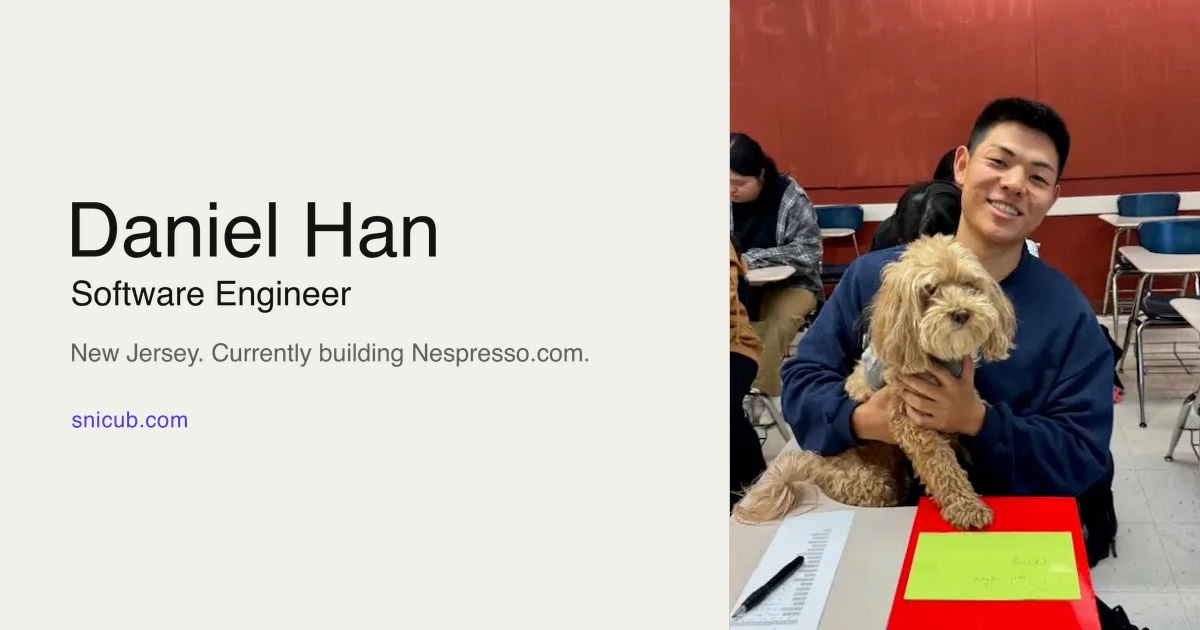
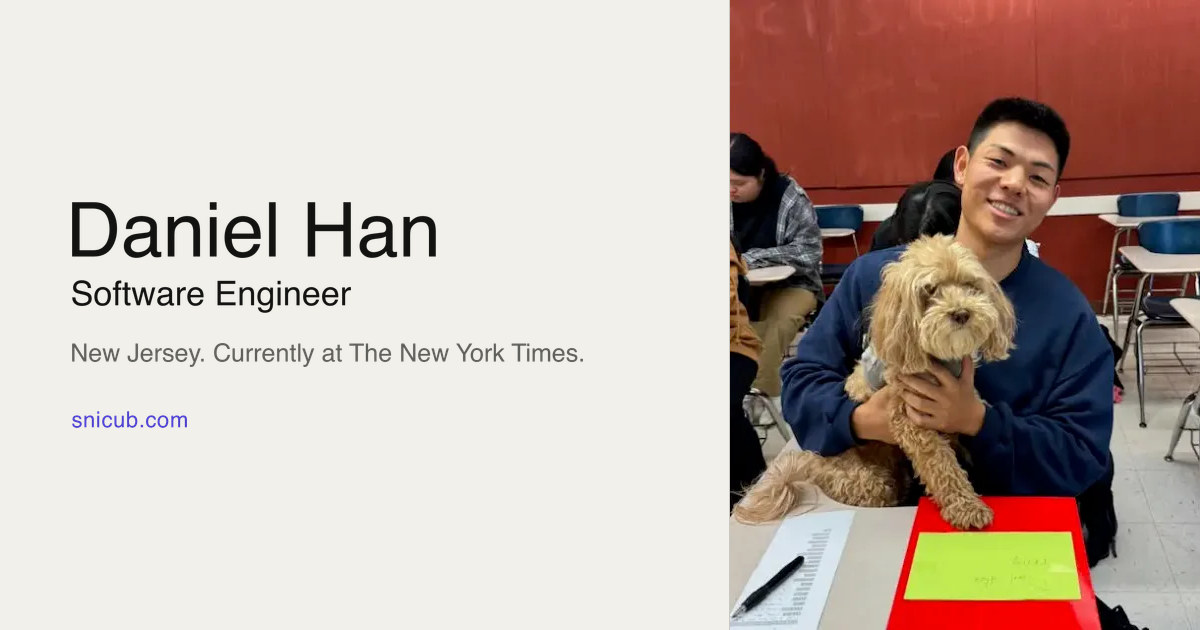
content: new role at The New York Times (Games)
Add NYT as current role; close out Nestle Nespresso (June 2025 - September
2026). Update meta descriptions, Person schema (worksFor, occupation),
keywords, llms.txt, manifest, and regenerate the OG card.

Changed region(s): [[0.0617, 0.5429, 0.4933, 0.573]]

diff --git a/src/lib/seo.ts b/src/lib/seo.ts
@@ -8,7 +8,7 @@ export const SITE_URL = "https://snicub.com";
 export const SITE_NAME = "Daniel Han";
 export const DEFAULT_TITLE = "Daniel Han — Software Engineer";
 export const DEFAULT_DESCRIPTION =
-  "Daniel Han is a software engineer based in New Jersey, currently building Nespresso.com. Portfolio of work, projects, and personal life.";
+  "Daniel Han is a software engineer based in New Jersey, currently at The New York Times. Portfolio of work, projects, and personal life.";
 export const OG_IMAGE = `${SITE_URL}/og-image.jpg`;
 export const OG_IMAGE_ALT =
   "Daniel Han — software engineer based in New Jersey";
@@ -61,7 +61,7 @@ export const PERSON = {
   name: "Daniel Han",
   alternateName: "Dan Han",
   jobTitle: "Software Engineer",
-  worksFor: "Nestle Nespresso",
+  worksFor: "The New York Times",
   alumniOf: "Rutgers University",
   location: "New Jersey, United States",
   email: "daniel.hangb@gmail.com",
@@ -135,9 +135,9 @@ export function personEntity() {
     url: SITE_URL,
     jobTitle: PERSON.jobTitle,
     description:
-      "Software engineer based in New Jersey, currently building Nespresso.com.",
+      "Software engineer based in New Jersey, currently at The New York Times.",
     disambiguatingDescription:
-      "Software engineer at Nestle Nespresso; Rutgers University graduate in Computer Science and Korean; based in New Jersey.",
+      "Software engineer at The New York Times, previously Nestle Nespresso; Rutgers University graduate in Computer Science and Korean; based in New Jersey.",
     email: `mailto:${PERSON.email}`,
     image: {
       "@type": "ImageObject",
@@ -150,9 +150,9 @@ export function personEntity() {
     },
     worksFor: {
       "@type": "Organization",
-      name: "Nestle Nespresso",
-      url: "https://www.nespresso.com/",
-      sameAs: "https://en.wikipedia.org/wiki/Nespresso",
+      name: "The New York Times",
+      url: "https://www.nytimes.com/",
+      sameAs: "https://en.wikipedia.org/wiki/The_New_York_Times",
     },
     alumniOf: {
       "@type": "CollegeOrUniversity",
@@ -185,7 +185,7 @@ export function personEntity() {
         "@type": "Occupation",
         name: "Software Engineer",
         description:
-          "Making the Nespresso website fast, functional, and user friendly.",
+          "Building New York Times Games.",
         occupationLocation: {
           "@type": "State",
           name: "New Jersey",
@@ -437,7 +437,7 @@ export function aboutGraph(args: {
       path: "/about",
       name: "About Daniel Han",
       description:
-        "Daniel Han is a software engineer at Nespresso, Rutgers CS + Korean alum, with experience at Colgate-Palmolive. Contact, experience, and education.",
+        "Daniel Han is a software engineer at The New York Times, Rutgers CS + Korean alum, previously at Nestle Nespresso and Colgate-Palmolive. Contact, experience, and education.",
       crumbs,
       speakableSelectors: [
         ".masthead__lede",

diff --git a/src/lib/data.ts b/src/lib/data.ts
@@ -209,7 +209,7 @@ const Data = {
     card1: {
       title: "About Me",
       content:
-        "Hi! I'm Dan, a software engineer based in New Jersey. Currently building Nespresso.com. I have a passion for creating platforms and services that make people's lives easier. ",
+        "Hi! I'm Dan, a software engineer based in New Jersey. Currently at The New York Times. I have a passion for creating platforms and services that make people's lives easier. ",
     },
   },
 
@@ -232,11 +232,17 @@ const Data = {
     },
     experience: [
       {
-        title: "Nestle Nespresso",
+        title: "The New York Times",
         position: "Software Engineer",
         date: "Present",
+        description: "Building New York Times Games.",
+      },
+      {
+        title: "Nestle Nespresso",
+        position: "Software Engineer",
+        date: "June 2025 - September 2026",
         description:
-          "Making the Nespresso website fast, functional, and user friendly.",
+          "Made the Nespresso website fast, functional, and user friendly.",
       },
       {
         title: "Colgate-Palmolive",

diff --git a/src/app/llms.txt/route.ts b/src/app/llms.txt/route.ts
@@ -31,9 +31,9 @@ function build(): string {
 
   return `# Daniel Han
 
-> Software engineer based in New Jersey, currently building Nespresso.com at
-> Nestle Nespresso. Rutgers University graduate with degrees in Computer
-> Science and Korean. This site is his personal portfolio: a photo gallery of
+> Software engineer based in New Jersey, currently working on Games at The New
+> York Times, previously at Nestle Nespresso. Rutgers University graduate with
+> degrees in Computer Science and Korean. This site is his personal portfolio: a photo gallery of
 > his work and life, and an about page with his experience and education.
 
 Also known as: Dan Han, snicub.

diff --git a/src/app/layout.tsx b/src/app/layout.tsx
@@ -29,6 +29,8 @@ export const metadata: Metadata = {
     "React",
     "TypeScript",
     "Next.js",
+    "The New York Times",
+    "NYT Games",
     "Nespresso",
     "Rutgers University",
     "New Jersey software engineer",
@@ -66,7 +68,7 @@ export const metadata: Metadata = {
     card: "summary_large_image",
     title: DEFAULT_TITLE,
     description:
-      "Software engineer based in New Jersey, currently building Nespresso.com.",
+      "Software engineer based in New Jersey, currently at The New York Times.",
     images: [OG_IMAGE],
   },
   icons: {

diff --git a/src/app/(main)/about/page.tsx b/src/app/(main)/about/page.tsx
@@ -4,7 +4,7 @@ import Data from "@/lib/data";
 import { aboutGraph, jsonLd, pageMetadata, PERSON } from "@/lib/seo";
 
 const DESCRIPTION =
-  "Daniel Han is a software engineer at Nespresso, Rutgers CS + Korean alum, with experience at Colgate-Palmolive. Contact, experience, and education.";
+  "Daniel Han is a software engineer at The New York Times, Rutgers CS + Korean alum, previously at Nestle Nespresso and Colgate-Palmolive. Contact, experience, and education.";
 
 export const metadata: Metadata = pageMetadata({
   path: "/about",

diff --git a/src/app/(main)/about/AboutContent.tsx b/src/app/(main)/about/AboutContent.tsx
@@ -18,7 +18,7 @@ import {
 } from "@/lib/motion";
 
 const LEDE =
-  "Software engineer in New Jersey, currently building Nespresso.com. Rutgers, Computer Science and Korean. Before that, the line at Taco Bell.";
+  "Software engineer in New Jersey, currently at The New York Times. Rutgers, Computer Science and Korean. Before that, the line at Taco Bell.";
 
 // The logos stand on the faces of a drum, so the set never has to be
 // repeated to keep the band full — a cylinder is already a loop.
